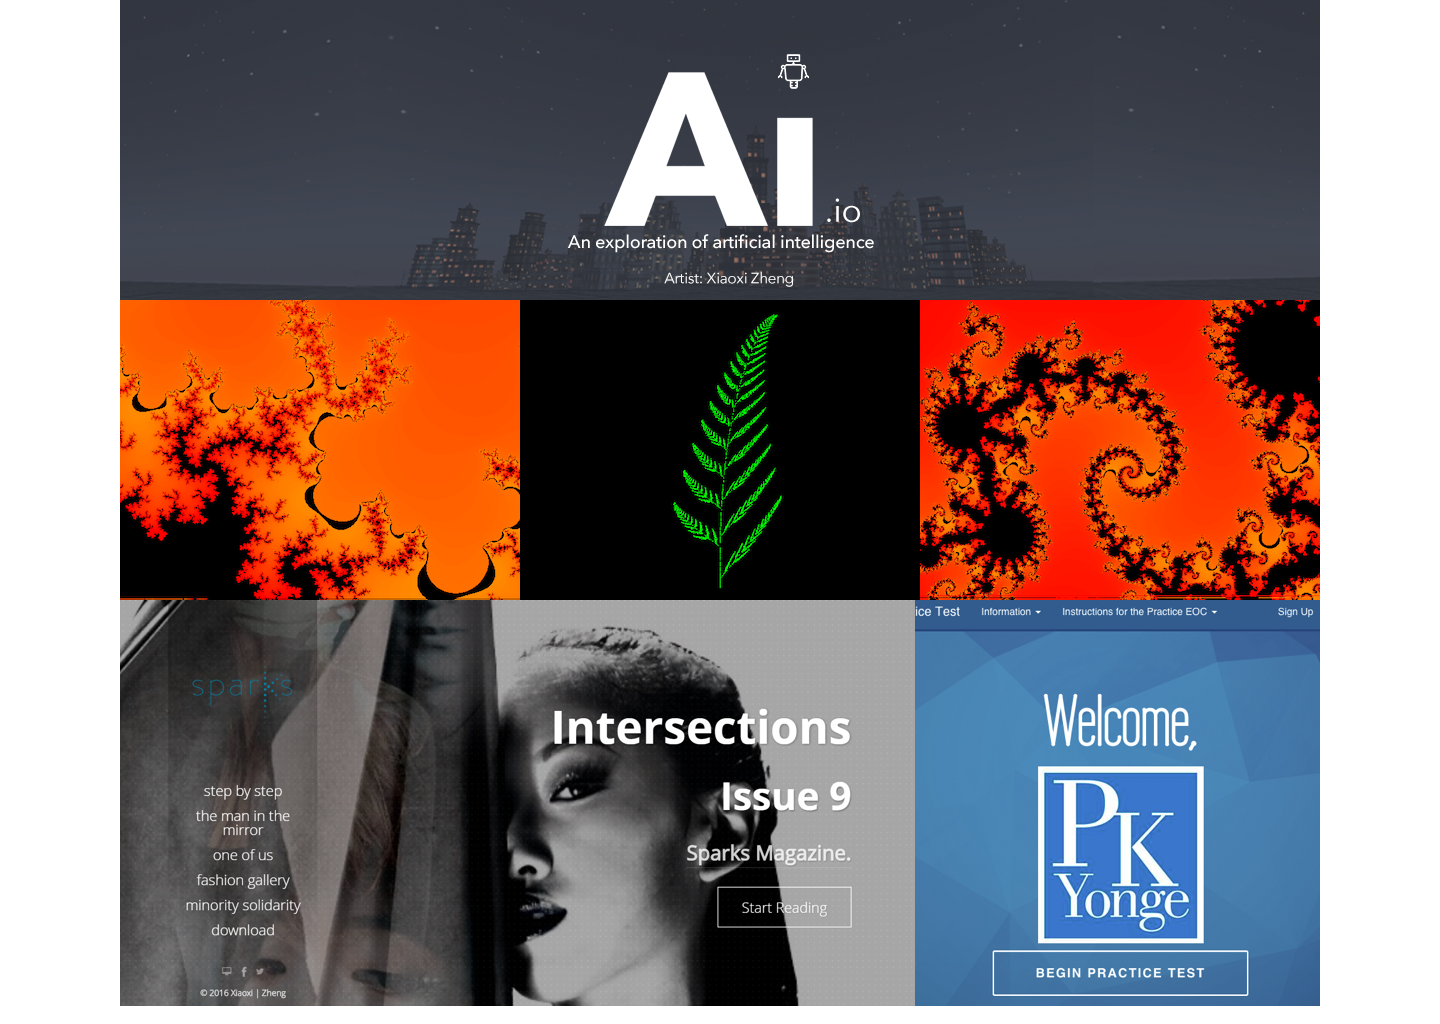
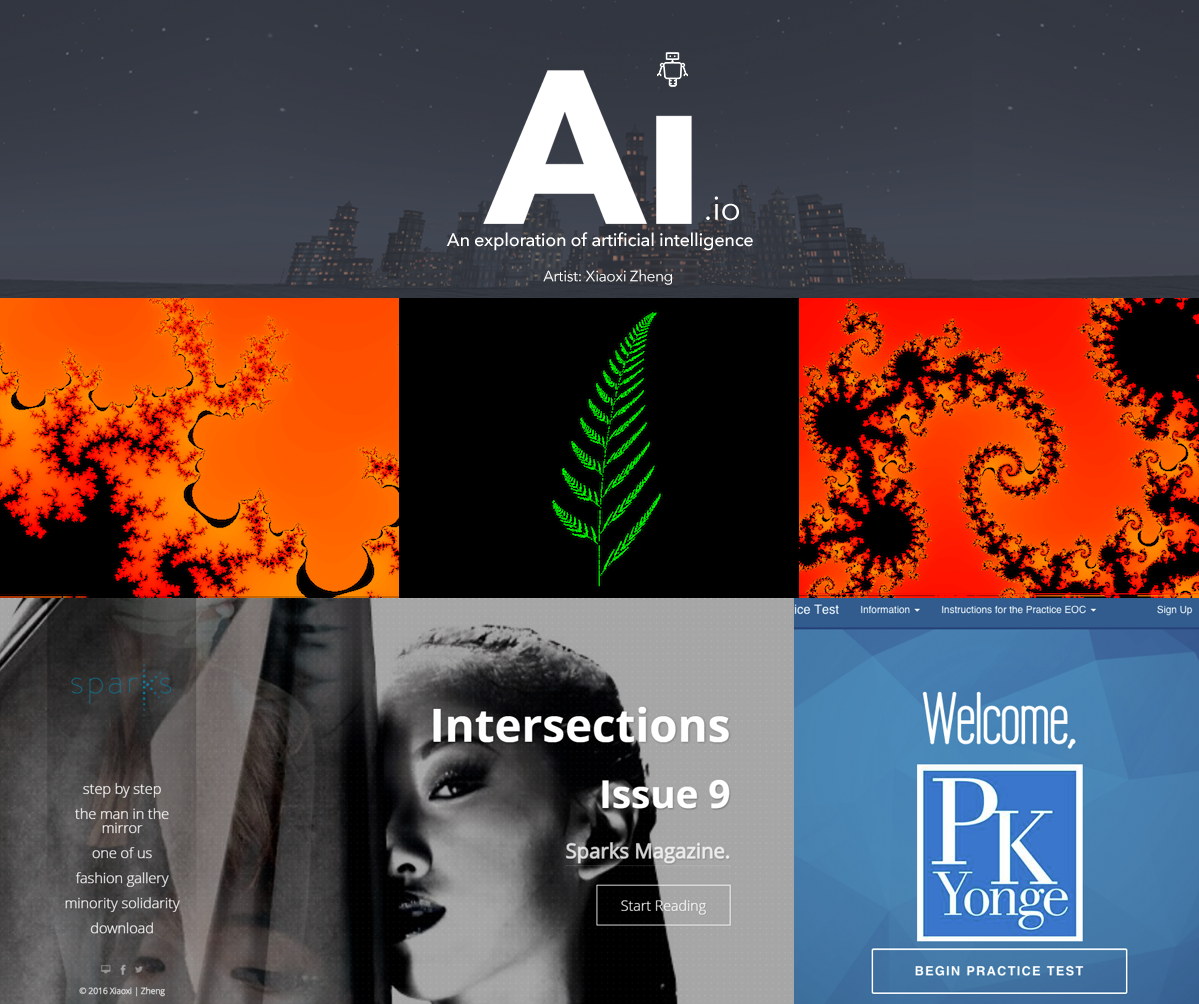
updating portfolio layout and images

diff --git a/index.html b/index.html
@@ -33,7 +33,7 @@
     <div class="inline-menu-container">
         <!-- <span class="status">I am available for freelance</span> -->
         <ul class="inline-menu">
-            <li class="about menu-item">Resume</li>
+            <li class="about menu-item">About</li>
             <li class="portfolio menu-item">Portfolio</li>
             <!-- <li class="blog menu-item">Blog</li> -->
             <li class="contact menu-item">Contact</li>
@@ -46,7 +46,8 @@
             <div class="name-block">
                 <div class="name-block-container">
                     <h1><span>Hi, I'm</span>Xiaoxi Zheng</h1>
-                    <h2 id="element"></h2>
+                    <h2>UX, UI Designer</h2>
+                    <!-- <h2 id="element"></h2> -->
                     <a target="_blank" href="resume.pdf" class="btn btn-download">Download Resume</a>
                     <ul class="social">
                         <li><a href="https://github.com/xiaoxizheng"><i class="ion-social-github" style="font-size: 20px"></i></a></li>
@@ -58,7 +59,7 @@
             <div class="menu-blocks">
                 <div class="about-block menu-block">
                     <div class="about-block-container">
-                        <h2 class="about menu-item">Resume</h2>
+                        <h2 class="about menu-item">About</h2>
                     </div>
                 </div>
                 <div class="portfolio-block  menu-block">
@@ -320,7 +321,7 @@
                                                     <div class="portfolio-content">
                                                         <h2>Ivy Direct</h2>
                                                         <hr>
-                                                        <p>Mortgage Loan Application</p>
+                                                        <p>Easier and better mortgage application</p>
                                                     </div>
                                                     <div class="portfolio-overlay"></div>
                                                 </div>
@@ -337,7 +338,7 @@
                                                     <div class="portfolio-content">
                                                         <h2>GE Oil & Gas</h2>
                                                         <hr>
-                                                        <p>IntelliStream Enterprise</p>
+                                                        <p>IntelliStream - Enterprise IoT solution solving the toughest pain points in oil & gas.</p>
                                                     </div>
                                                     <div class="portfolio-overlay"></div>
                                                 </div>
@@ -354,7 +355,7 @@
                                                     <div class="portfolio-content">
                                                         <h2>Lomie</h2>
                                                         <hr>
-                                                        <p>Personal Finance App</p>
+                                                        <p>A personal finance app to develop healthier saving habits.</p>
                                                     </div>
                                                     <div class="portfolio-overlay"></div>
                                                 </div>
@@ -409,7 +410,7 @@
                                                     </div>
                                                     <div class="portfolio-overlay"></div>
                                                 </div>
-                                                <img src="images/portfolio/full-width/tech-art.png" alt="Tech Art">
+                                                <img src="images/portfolio/full-width/sparks.png" alt="Tech Art">
                                             </div>
                                         </a>
                                     </div>
@@ -426,7 +427,7 @@
                                                     </div>
                                                     <div class="portfolio-overlay"></div>
                                                 </div>
-                                                <img src="images/portfolio/full-width/photography.jpg" alt="photography">
+                                                <img src="images/portfolio/full-width/sunset_sarasota.jpg" alt="photography">
                                             </div>
                                         </a>
                                     </div>

diff --git a/js/main.js b/js/main.js
@@ -67,8 +67,8 @@
 
 	// Typing Animation (Typed.js)
 	$('#element').typed({
-	    strings: ["UX, UI Designer", "Design Technologist", "Foodie", "Explorer "],
-	    typeSpeed: 0,
+	    strings: ["UX, UI Designer", "Design Technologist"],
+	    typeSpeed: 1,
 	    loop: true,
 	    startDelay: 500,
 	    backDelay: 3000,

diff --git a/css/style.css b/css/style.css
@@ -1506,7 +1506,8 @@ h4.package {
 }
 
 .portfolio-column:hover img {
-    transform: scale(1.1);
+    transform: scale(1.05);
+    /* transition: all 0.3s; */
 }
 
 .portfolio-column:hover .portfolio-content {
